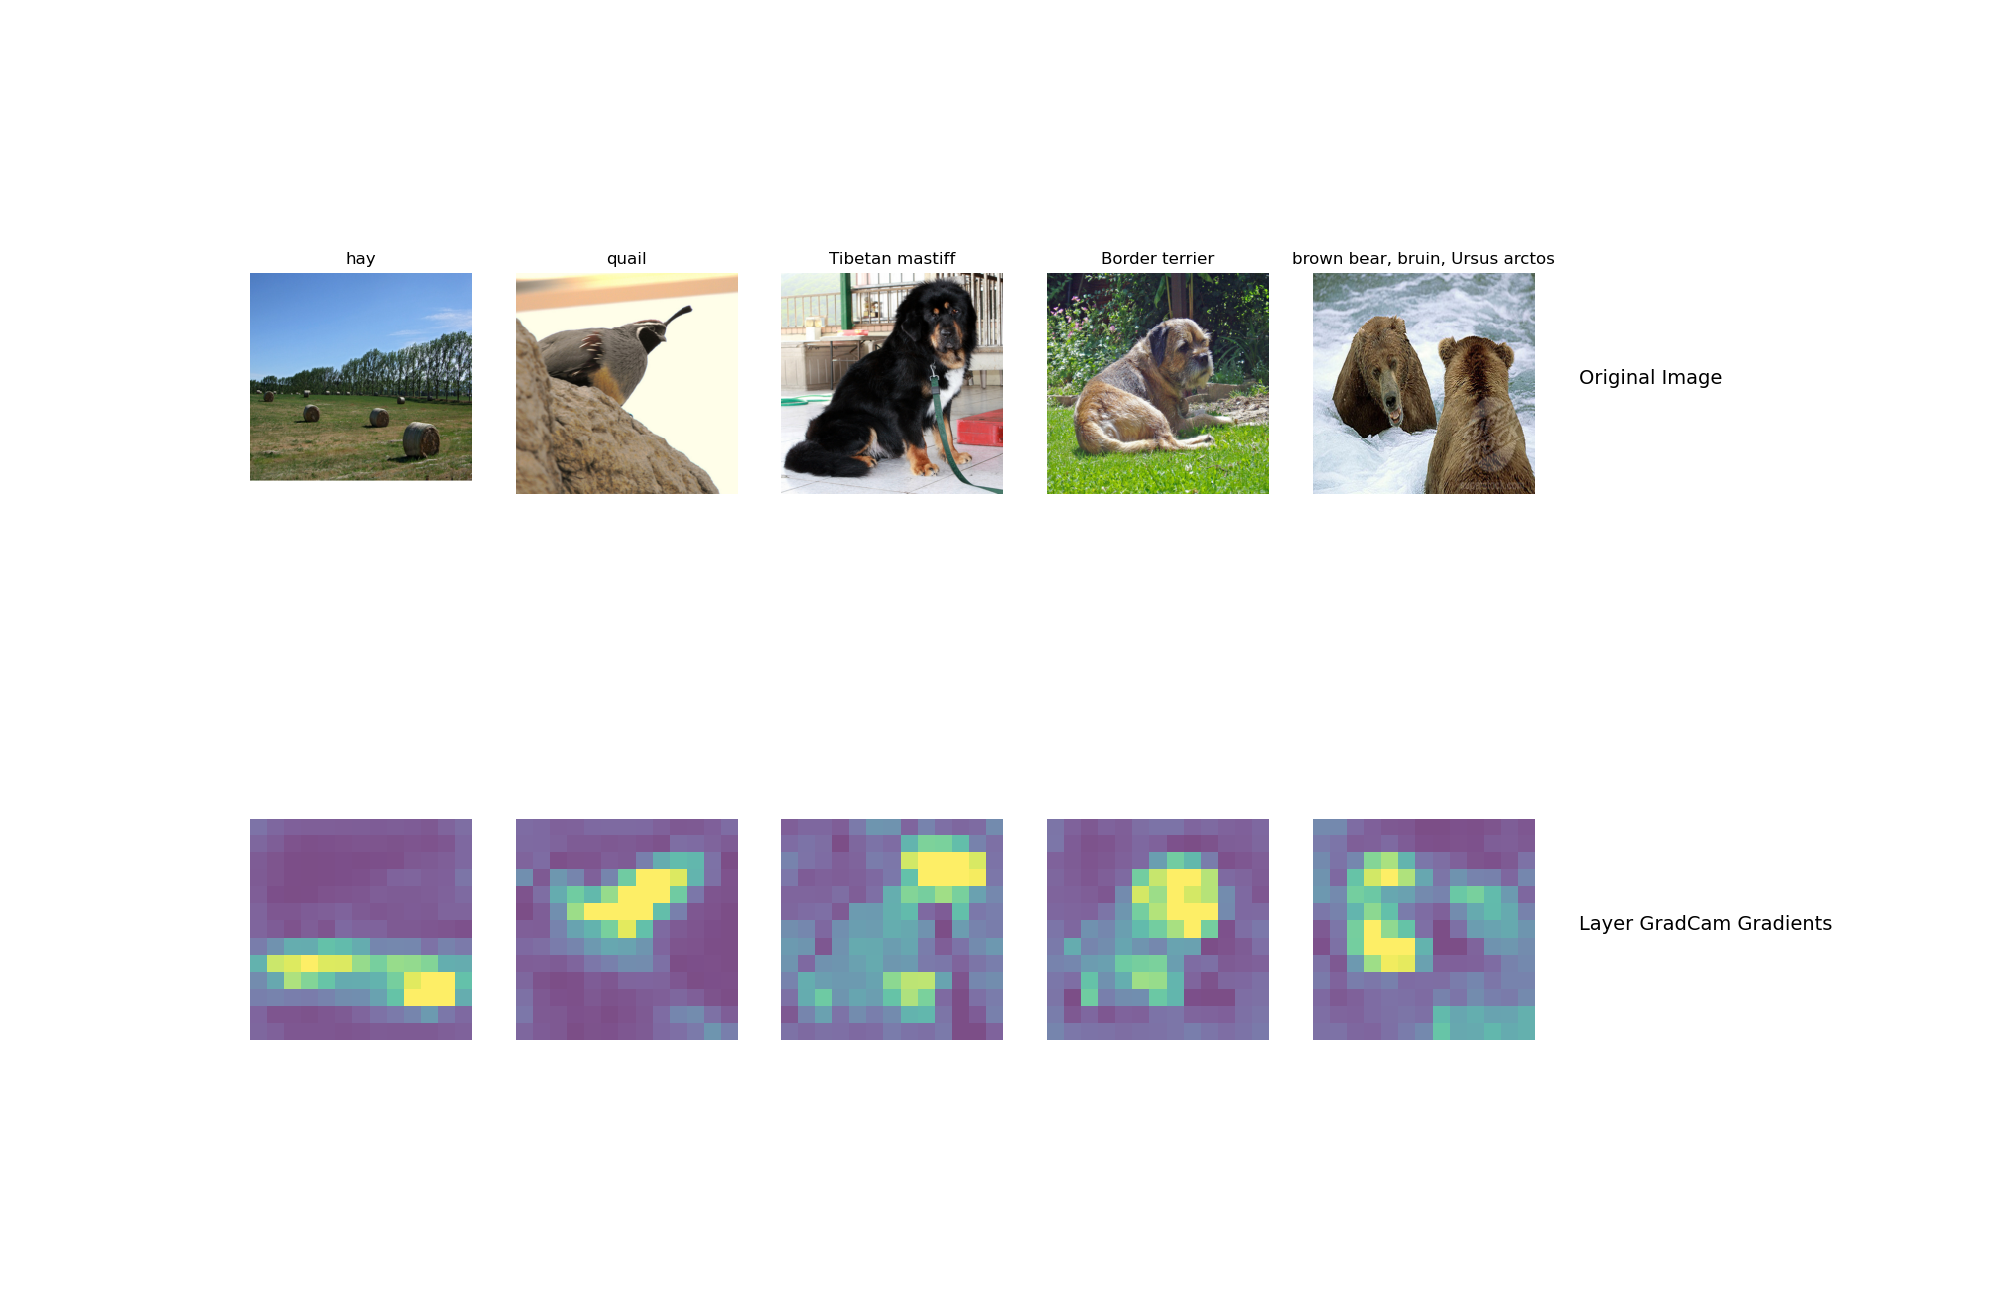
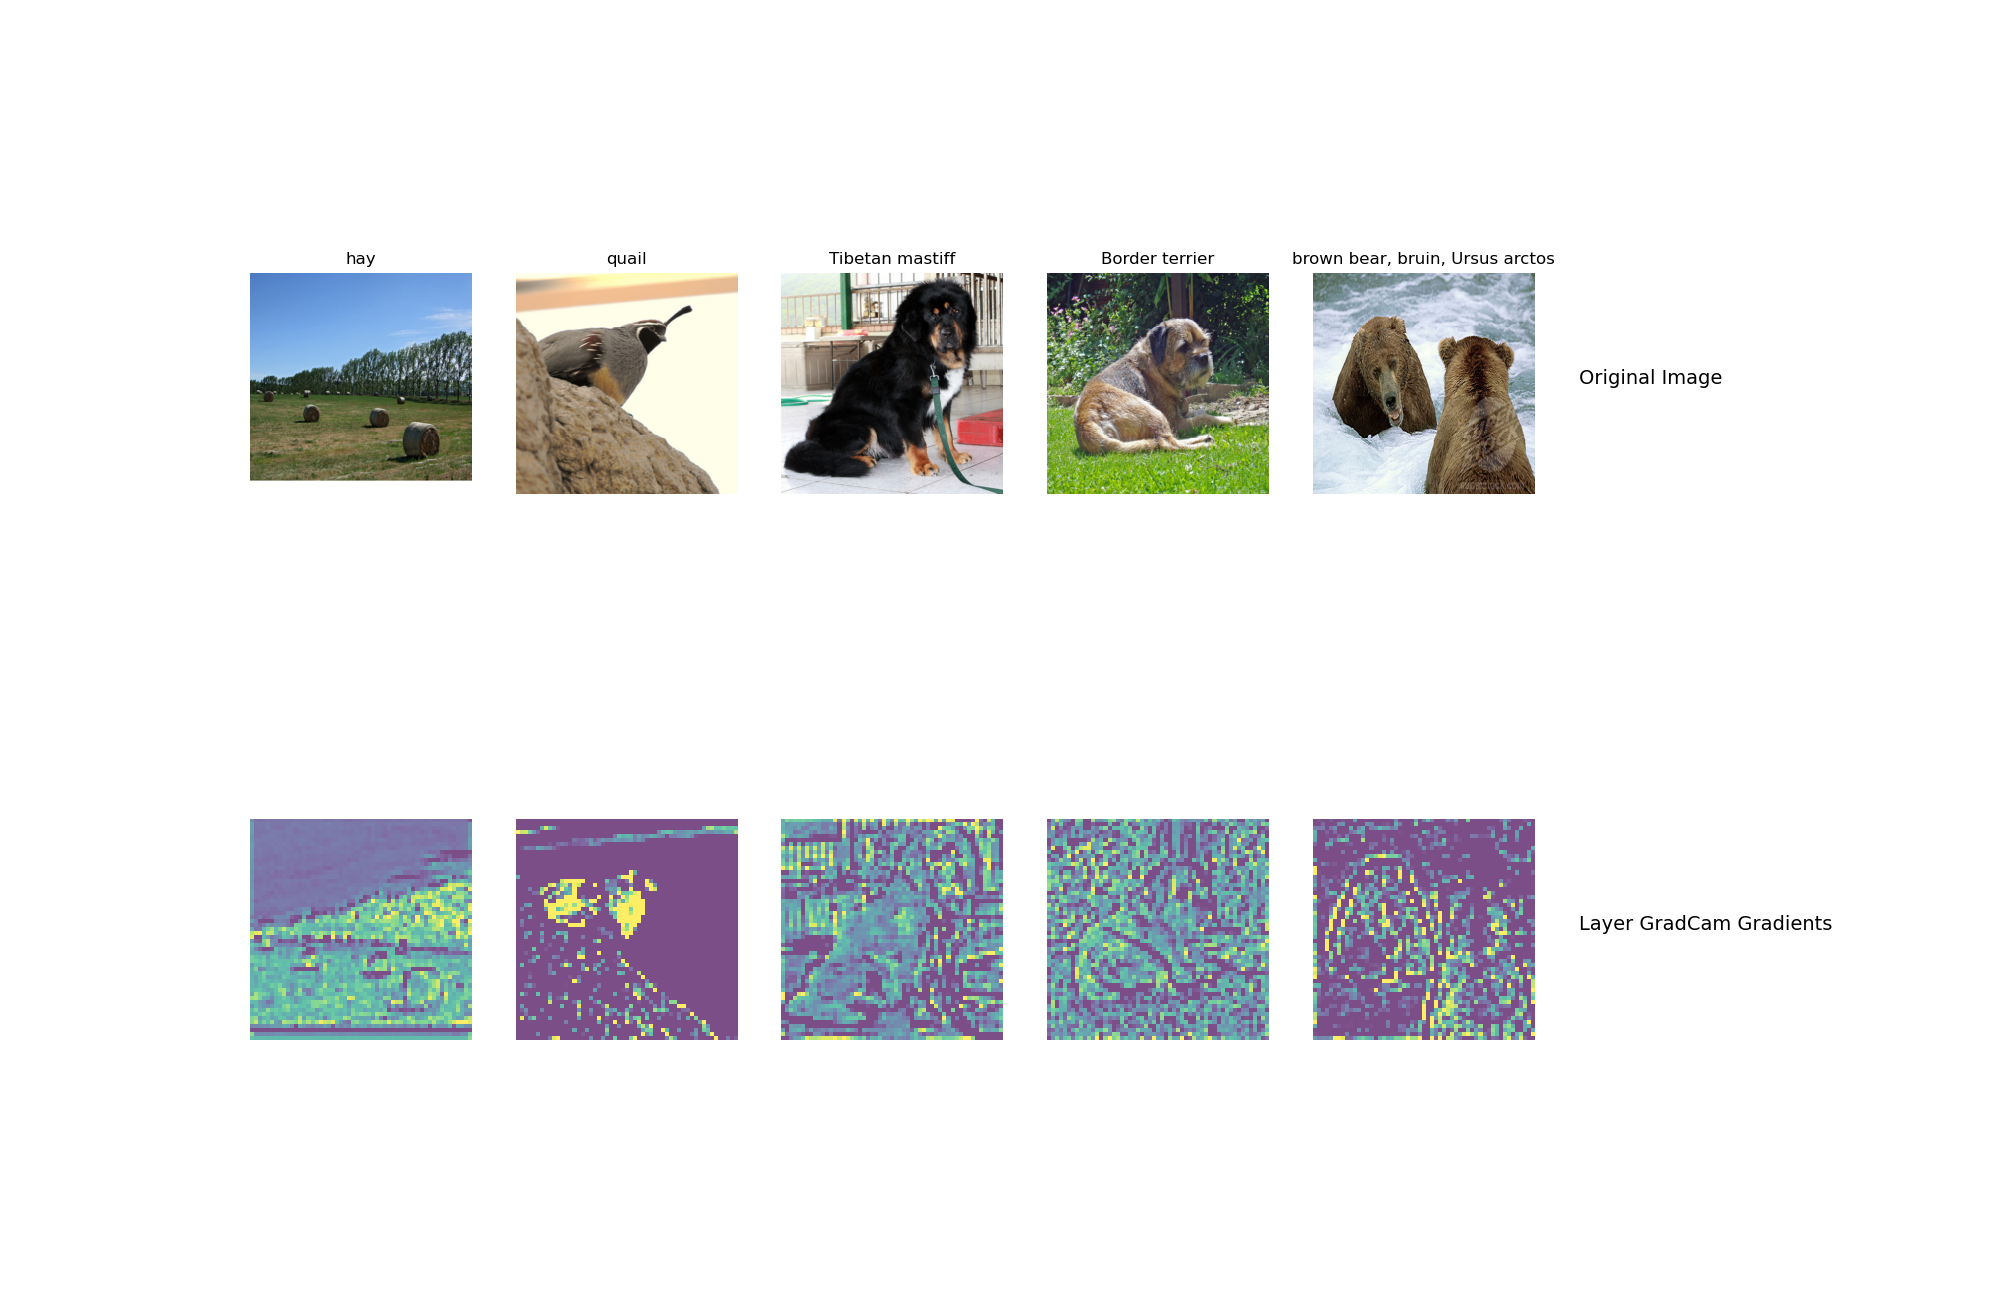
Finished 1.2

Changed region(s): [[0.124, 0.6154, 0.775, 0.8]]

diff --git a/gradcam.py b/gradcam.py
@@ -27,72 +27,72 @@ gc = GradCam()
 X_tensor = torch.cat([preprocess(Image.fromarray(x)) for x in X], dim=0).requires_grad_(True)
 y_tensor = torch.LongTensor(y)
 
-# Guided Back-Propagation
-gbp_result = gc.guided_backprop(X_tensor,y_tensor, gc_model)
-
-plt.figure(figsize=(24, 24))
-for i in range(gbp_result.shape[0]):
-    plt.subplot(1, 5, i + 1)
-    img = gbp_result[i]
-    img = rescale(img)
-    plt.imshow(img)
-    plt.title(class_names[y[i]])
-    plt.axis('off')
-plt.gcf().tight_layout()
-plt.savefig('visualization/guided_backprop.png')
-
-
-
-# GradCam
-# GradCAM. We have given you which module(=layer) that we need to capture gradients from, which you can see in conv_module variable below
-gc_model = torchvision.models.squeezenet1_1(pretrained=True)
-for param in gc_model.parameters():
-    param.requires_grad = True
-
-X_tensor = torch.cat([preprocess(Image.fromarray(x)) for x in X], dim=0).requires_grad_(True)
-y_tensor = torch.LongTensor(y)
-gradcam_result = gc.grad_cam(X_tensor, y_tensor, gc_model)
-
-plt.figure(figsize=(24, 24))
-for i in range(gradcam_result.shape[0]):
-    gradcam_val = gradcam_result[i]
-    img = X[i] + (matplotlib.cm.jet(gradcam_val)[:,:,:3]*255)
-    img = img / np.max(img)
-    plt.subplot(1, 5, i + 1)
-    plt.imshow(img)
-    plt.title(class_names[y[i]])
-    plt.axis('off')
-plt.gcf().tight_layout()
-plt.savefig('visualization/gradcam.png')
-
-
-# As a final step, we can combine GradCam and Guided Backprop to get Guided GradCam.
-X_tensor = torch.cat([preprocess(Image.fromarray(x)) for x in X], dim=0).requires_grad_(True)
-y_tensor = torch.LongTensor(y)
-gradcam_result = gc.grad_cam(X_tensor, y_tensor, gc_model)
-gbp_result = gc.guided_backprop(X_tensor, y_tensor, gc_model)
-
-plt.figure(figsize=(24, 24))
-for i in range(gradcam_result.shape[0]):
-    gbp_val = gbp_result[i]
-    gradcam_val = np.expand_dims(gradcam_result[i], axis=2)
-
-    # Pointwise multiplication and normalization of the gradcam and guided backprop results (2 lines)
-    img = gradcam_val * gbp_val
-
-    # img = np.expand_dims(img.transpose(2, 0, 1), axis=0)
-    # img = np.float32(img)
-    # img = torch.from_numpy(img)
-    # img = deprocess(img)
-    img = rescale(img)
-    plt.subplot(1, 5, i + 1)
-    plt.imshow(img)
-    plt.title(class_names[y[i]])
-    plt.axis('off')
-plt.gcf().tight_layout()
-plt.savefig('visualization/guided_gradcam.png')
-
-
+# # Guided Back-Propagation
+# gbp_result = gc.guided_backprop(X_tensor,y_tensor, gc_model)
+#
+# plt.figure(figsize=(24, 24))
+# for i in range(gbp_result.shape[0]):
+#     plt.subplot(1, 5, i + 1)
+#     img = gbp_result[i]
+#     img = rescale(img)
+#     plt.imshow(img)
+#     plt.title(class_names[y[i]])
+#     plt.axis('off')
+# plt.gcf().tight_layout()
+# plt.savefig('visualization/guided_backprop.png')
+#
+#
+#
+# # GradCam
+# # GradCAM. We have given you which module(=layer) that we need to capture gradients from, which you can see in conv_module variable below
+# gc_model = torchvision.models.squeezenet1_1(pretrained=True)
+# for param in gc_model.parameters():
+#     param.requires_grad = True
+#
+# X_tensor = torch.cat([preprocess(Image.fromarray(x)) for x in X], dim=0).requires_grad_(True)
+# y_tensor = torch.LongTensor(y)
+# gradcam_result = gc.grad_cam(X_tensor, y_tensor, gc_model)
+#
+# plt.figure(figsize=(24, 24))
+# for i in range(gradcam_result.shape[0]):
+#     gradcam_val = gradcam_result[i]
+#     img = X[i] + (matplotlib.cm.jet(gradcam_val)[:,:,:3]*255)
+#     img = img / np.max(img)
+#     plt.subplot(1, 5, i + 1)
+#     plt.imshow(img)
+#     plt.title(class_names[y[i]])
+#     plt.axis('off')
+# plt.gcf().tight_layout()
+# plt.savefig('visualization/gradcam.png')
+#
+#
+# # As a final step, we can combine GradCam and Guided Backprop to get Guided GradCam.
+# X_tensor = torch.cat([preprocess(Image.fromarray(x)) for x in X], dim=0).requires_grad_(True)
+# y_tensor = torch.LongTensor(y)
+# gradcam_result = gc.grad_cam(X_tensor, y_tensor, gc_model)
+# gbp_result = gc.guided_backprop(X_tensor, y_tensor, gc_model)
+#
+# plt.figure(figsize=(24, 24))
+# for i in range(gradcam_result.shape[0]):
+#     gbp_val = gbp_result[i]
+#     gradcam_val = np.expand_dims(gradcam_result[i], axis=2)
+#
+#     # Pointwise multiplication and normalization of the gradcam and guided backprop results (2 lines)
+#     img = gradcam_val * gbp_val
+#
+#     # img = np.expand_dims(img.transpose(2, 0, 1), axis=0)
+#     # img = np.float32(img)
+#     # img = torch.from_numpy(img)
+#     # img = deprocess(img)
+#     img = rescale(img)
+#     plt.subplot(1, 5, i + 1)
+#     plt.imshow(img)
+#     plt.title(class_names[y[i]])
+#     plt.axis('off')
+# plt.gcf().tight_layout()
+# plt.savefig('visualization/guided_gradcam.png')
+#
+#
 # **************************************************************************************** #
 # Captum
 model = torchvision.models.squeezenet1_1(pretrained=True)
@@ -108,40 +108,40 @@ y_tensor = torch.LongTensor(y)
 
 conv_module = model.features[12]
 
-##############################################################################
-# TODO: Compute/Visualize GuidedBackprop and Guided GradCAM as well.         #
-#       visualize_attr_maps function from captum_utils.py is useful for      #
-#       visualizing captum outputs                                           #
-#       Use conv_module as the convolution layer for gradcam                 #
-##############################################################################
-# Computing Guided GradCam
-gradcam_result = gc.grad_cam(X_tensor, y_tensor, model)
-gbp_result = gc.guided_backprop(X_tensor, y_tensor, model)
-
-ggc_imgs = []
-for i in range(gradcam_result.shape[0]):
-    gbp_val = gbp_result[i]
-    gradcam_val = np.expand_dims(gradcam_result[i], axis=2)
-
-    # Pointwise multiplication and normalization of the gradcam and guided backprop results (2 lines)
-    img = gradcam_val * gbp_val
-    img = rescale(img)
-    ggc_imgs.append(img)
-
-ggc_imgs = torch.FloatTensor(ggc_imgs)
-ggc_imgs = ggc_imgs.sum(dim=[3]).unsqueeze(0)
-visualize_attr_maps('visualization/guided_gradcam_grads_captum.png', X, y, class_names,
-                    ggc_imgs, ['Guided Gradcam captum output'],
-                    # cmap='gray',
-                    attr_preprocess=lambda attr: attr.detach().numpy())
-
-# Computing Guided BackProp
-gbp_result = torch.FloatTensor(gbp_result)
-gbp_result = gbp_result.sum(dim=[3]).unsqueeze(0)
-visualize_attr_maps('visualization/guided_backprop_grads_captum.png', X, y, class_names,
-                    gbp_result, ['Guided Backprop captum output'],
-                    # cmap='gray',
-                    attr_preprocess=lambda attr: attr.detach().numpy())
+# ##############################################################################
+# # TODO: Compute/Visualize GuidedBackprop and Guided GradCAM as well.         #
+# #       visualize_attr_maps function from captum_utils.py is useful for      #
+# #       visualizing captum outputs                                           #
+# #       Use conv_module as the convolution layer for gradcam                 #
+# ##############################################################################
+# # Computing Guided GradCam
+# gradcam_result = gc.grad_cam(X_tensor, y_tensor, model)
+# gbp_result = gc.guided_backprop(X_tensor, y_tensor, model)
+#
+# ggc_imgs = []
+# for i in range(gradcam_result.shape[0]):
+#     gbp_val = gbp_result[i]
+#     gradcam_val = np.expand_dims(gradcam_result[i], axis=2)
+#
+#     # Pointwise multiplication and normalization of the gradcam and guided backprop results (2 lines)
+#     img = gradcam_val * gbp_val
+#     img = rescale(img)
+#     ggc_imgs.append(img)
+#
+# ggc_imgs = torch.FloatTensor(ggc_imgs)
+# ggc_imgs = ggc_imgs.sum(dim=[3]).unsqueeze(0)
+# visualize_attr_maps('visualization/guided_gradcam_grads_captum.png', X, y, class_names,
+#                     ggc_imgs, ['Guided Gradcam captum output'],
+#                     # cmap='gray',
+#                     attr_preprocess=lambda attr: attr.detach().numpy())
+#
+# # Computing Guided BackProp
+# gbp_result = torch.FloatTensor(gbp_result)
+# gbp_result = gbp_result.sum(dim=[3]).unsqueeze(0)
+# visualize_attr_maps('visualization/guided_backprop_grads_captum.png', X, y, class_names,
+#                     gbp_result, ['Guided Backprop captum output'],
+#                     # cmap='gray',
+#                     attr_preprocess=lambda attr: attr.detach().numpy())
 
 
 ##############################################################################
@@ -149,7 +149,7 @@ visualize_attr_maps('visualization/guided_backprop_grads_captum.png', X, y, clas
 ##############################################################################
 
 # Try out different layers and see observe how the attributions change
-layer = model.features[12]
+layer = model.features[3]
 
 ##############################################################################
 # TODO: Visualize Individual Layer Gradcam and Layer Conductance (similar    #
@@ -166,17 +166,21 @@ layer = model.features[12]
 # For layer gradcam look at the usage of the parameter relu_attributions     #
 ##############################################################################
 # Layer gradcam aggregates across all channels
-layer_gc = LayerGradCam(model, conv_module)
+layer_gc = LayerGradCam(model, layer)
 layer_gc_attr = compute_attributions(layer_gc, X_tensor, target=y_tensor, relu_attributions=True)
 layer_gc_attr_sum = layer_gc_attr.sum(axis=1, keepdim=True)
-visualize_attr_maps('visualization/gradcam_layer_captum.png', X, y, class_names, [layer_gc_attr_sum], ['Layer GradCam Gradients'])
-
+visualize_attr_maps('visualization/gradcam_layer_captum.png', X, y, class_names,
+                    [layer_gc_attr_sum],
+                    ['Layer GradCam Gradients'],
+                    attr_preprocess=lambda attr: attr.squeeze(0).detach().numpy())
 
 layer_co = LayerConductance(model, layer)
 layer_co_attr = compute_attributions(layer_co, X_tensor, target=y_tensor)
 layer_co_attr_sum = layer_co_attr.sum(axis=1, keepdim=True)
-visualize_attr_maps('visualization/conductance_layer_captum.png', X, y, class_names, [layer_co_attr_sum], ['Layer Conductance Gradients'])
-
+visualize_attr_maps('visualization/conductance_layer_captum.png', X, y, class_names,
+                    [layer_co_attr_sum],
+                    ['Layer Conductance Gradients'],
+                    attr_preprocess=lambda attr: attr.squeeze(0).detach().numpy())
 ##############################################################################
 #                             END OF YOUR CODE                               #
 ##############################################################################
